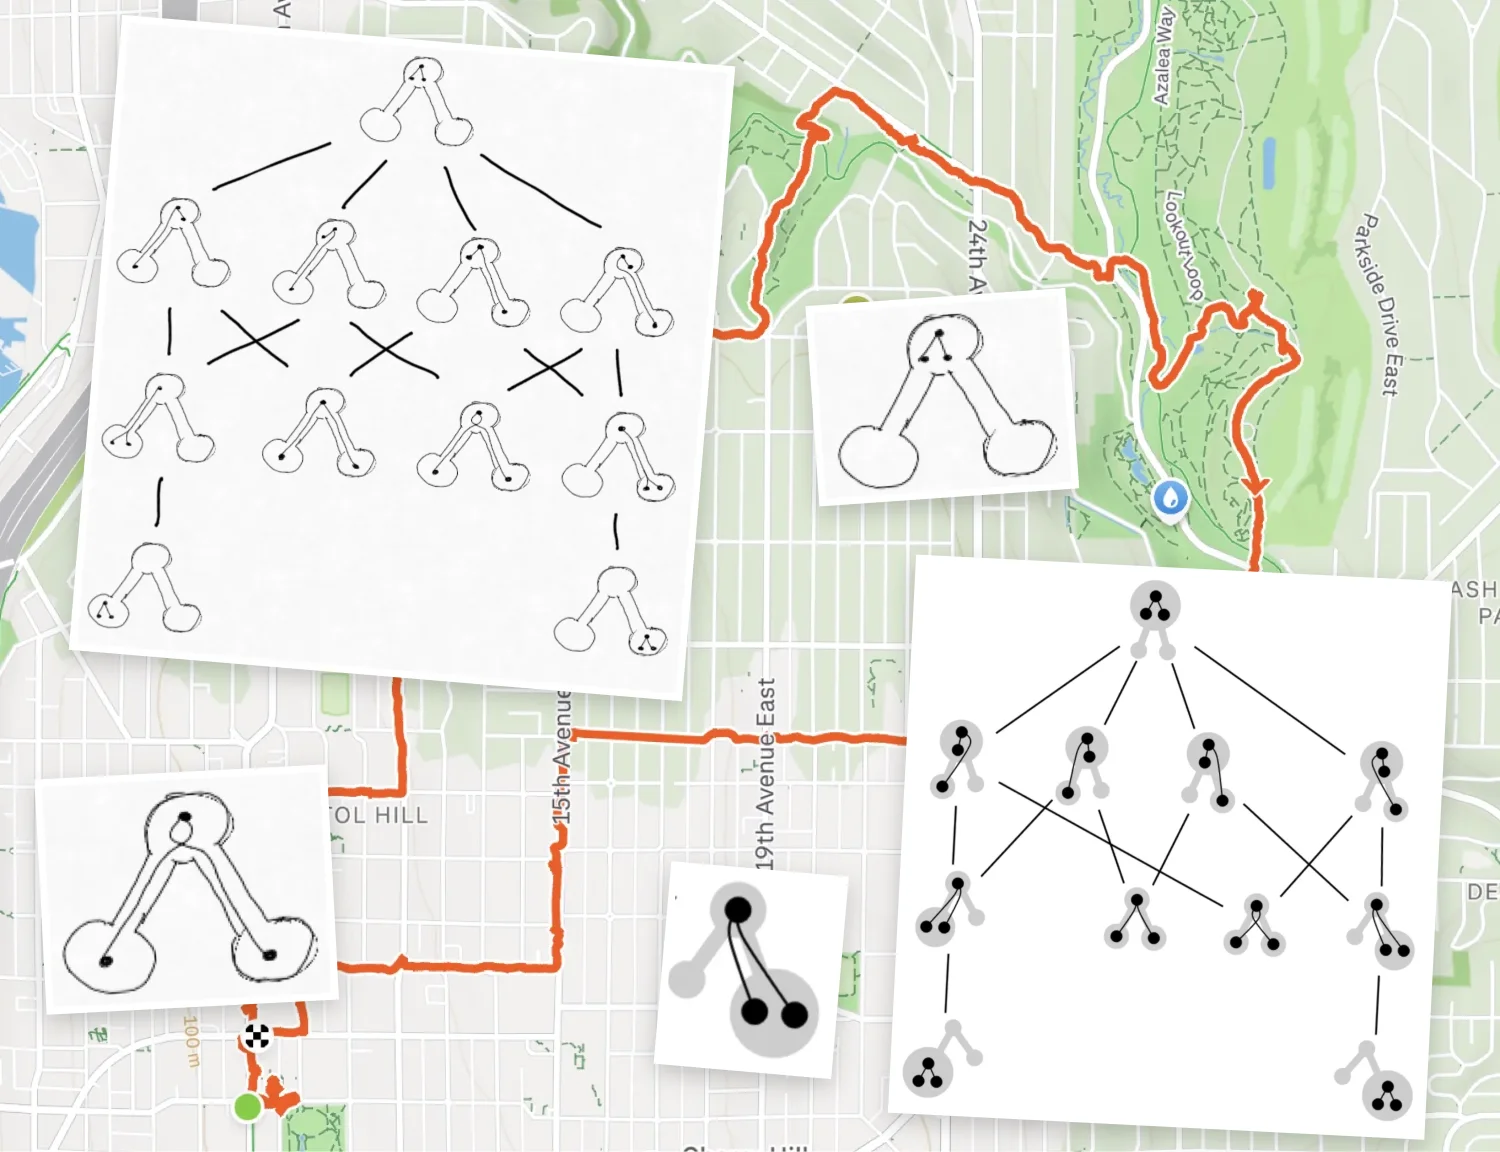
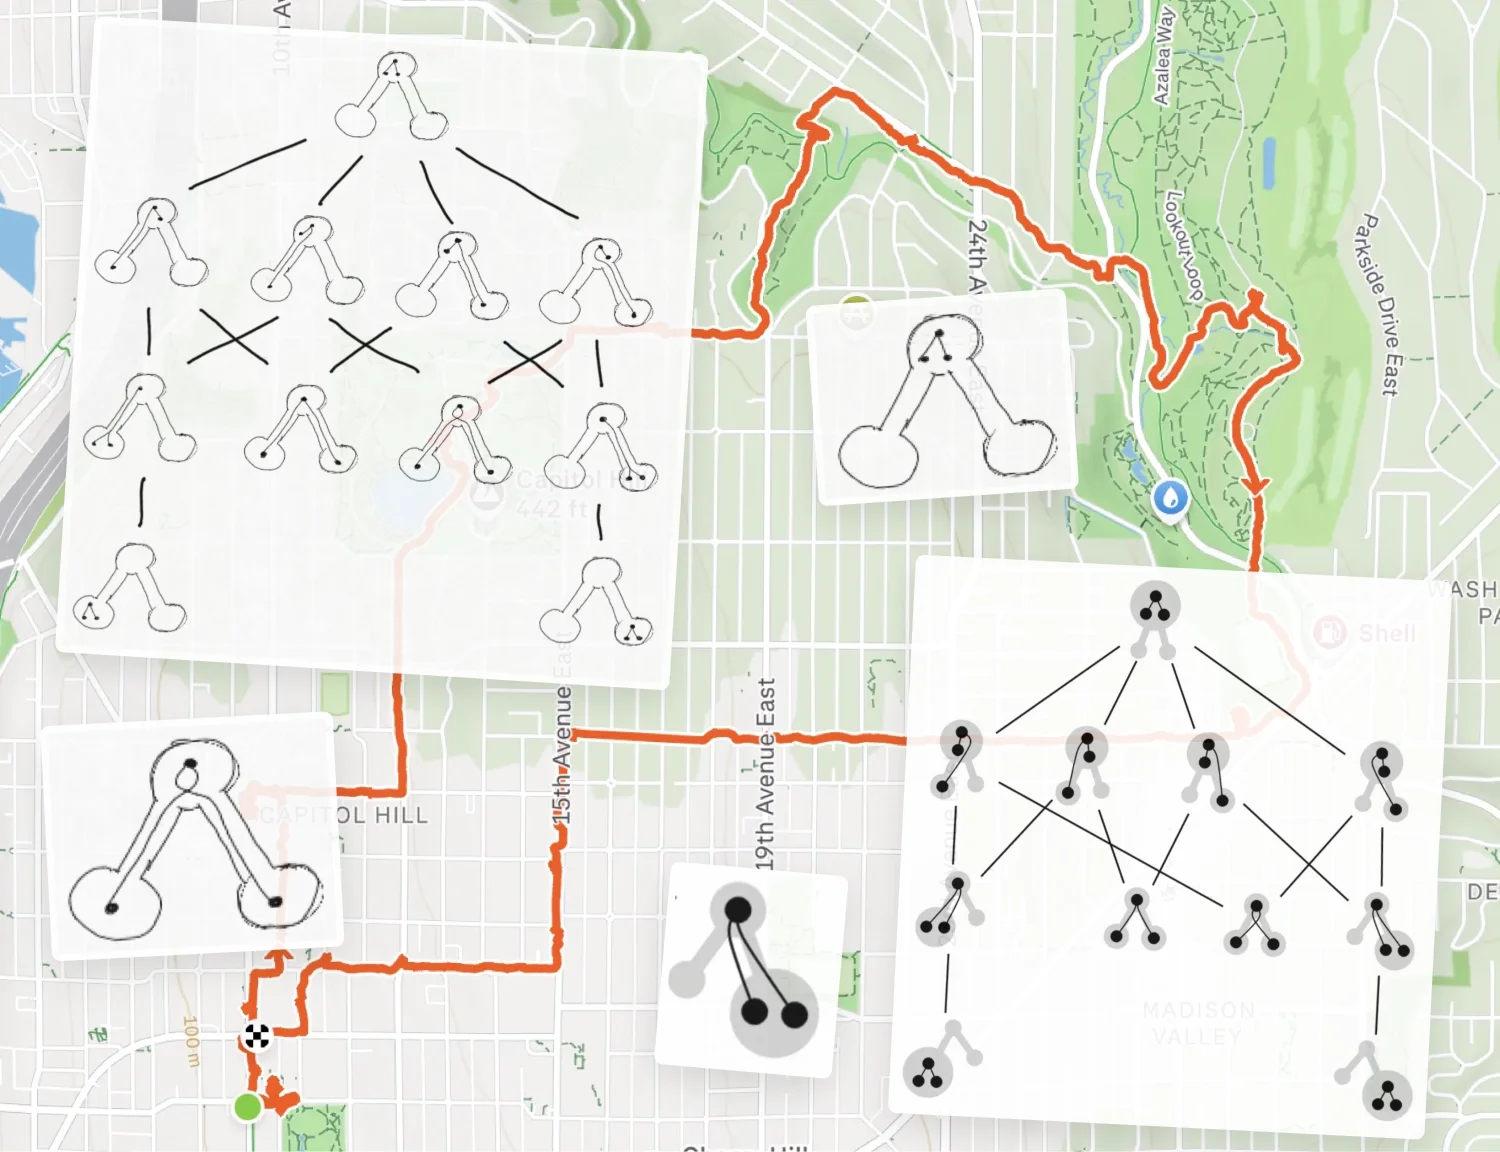
D2 page: the walk figure's sketches as Andrew set them, and a one-line caption
The paper's shadow, corners and opacity are the layout's now (walk.js's
PAPER_LOOK is the original look), with sliders for them in the editor.

diff --git a/papers/d2/review/walk-editor.js b/papers/d2/review/walk-editor.js
@@ -4,7 +4,7 @@
 // image on request; served otherwise, it keeps unsaved work in this browser,
 // to Download or Copy.
 
-import { drawPiece, mountWalk, pieceSize, SOURCES } from "../walk.js";
+import { drawPiece, mountWalk, PAPER_LOOK, paperLook, pieceSize, SOURCES } from "../walk.js";
 
 const LAYOUT_URL = "../walk/layout.json";
 /** The layout Claude started with, for Revert */
@@ -92,7 +92,7 @@ function drawPieces() {
       el.dataset.id = p.id;
       pieceEls.set(p.id, el);
     }
-    drawPiece(el, p, "../");
+    drawPiece(el, p, "../", paperLook(layout));
     el.style.pointerEvents = p.locked ? "none" : "";
     el.style.cursor = "move";
     stage.append(el); // in order, bottom to top
@@ -250,6 +250,7 @@ function drawPanel() {
   $("sel-title").textContent = p ? `${name(p)} (${p.id})` : "Page frame";
   if (p) $("look").value = p.look;
   drawNums();
+  drawSliders();
   $("undo").disabled = !undos.length;
   $("redo").disabled = !redos.length;
 }
@@ -268,6 +269,47 @@ function drawNums() {
 function draw() {
   drawPieces();
   drawOverlay();
+}
+
+// # The paper's look: a slider for each of PAPER_LOOK's settings
+
+const SLIDERS = [
+  { key: "lift", label: "shadow lift", min: 0, max: 30, step: 0.5, show: (v) => v.toFixed(1) },
+  { key: "shadow", label: "shadow dark", min: 0, max: 0.5, step: 0.01, show: (v) => v.toFixed(2) },
+  { key: "corner", label: "corners", min: 0, max: 40, step: 0.5, show: (v) => v.toFixed(1) },
+  { key: "opacity", label: "opacity", min: 0.5, max: 1, step: 0.01, show: (v) => v.toFixed(2) },
+];
+
+/** The layout before the slider being dragged moved, for undo */
+let sliderBefore = null;
+for (const sl of SLIDERS) {
+  const row = document.createElement("label");
+  row.className = "slider";
+  row.innerHTML = `<span>${sl.label}</span><input type="range" min="${sl.min}" max="${sl.max}" step="${sl.step}" data-k="${sl.key}"><output></output>`;
+  const input = row.querySelector("input");
+  input.oninput = () => {
+    sliderBefore ??= snapshot();
+    layout.paper = { ...paperLook(layout), [sl.key]: Number(input.value) };
+    drawPieces();
+    drawSliders();
+  };
+  input.onchange = () => {
+    if (sliderBefore === null || sliderBefore === snapshot()) return void (sliderBefore = null);
+    undos.push(sliderBefore);
+    redos.length = 0;
+    sliderBefore = null;
+    committed();
+  };
+  $("paper-sliders").append(row);
+}
+
+function drawSliders() {
+  const look = paperLook(layout);
+  for (const sl of SLIDERS) {
+    const input = document.querySelector(`#paper-sliders [data-k="${sl.key}"]`);
+    input.value = look[sl.key];
+    input.nextElementSibling.textContent = sl.show(look[sl.key]);
+  }
 }
 
 // # Changes, undo, saving
@@ -310,7 +352,8 @@ function formatted(l) {
           .join(", ")} }`
       : JSON.stringify(v);
   const piece = (p) => flat({ ...p, crop: box(p.crop), x: r(p.x), y: r(p.y), scale: r(p.scale, 4), rotate: r(p.rotate) });
-  return `{\n  "frame": ${flat(box(l.frame))},\n  "pieces": [\n${l.pieces.map((p) => `    ${piece(p)}`).join(",\n")}\n  ]\n}\n`;
+  const paper = l.paper && `  "paper": ${flat(Object.fromEntries(Object.entries(l.paper).map(([key, v]) => [key, r(v, 2)])))},\n`;
+  return `{\n  "frame": ${flat(box(l.frame))},\n${paper ?? ""}  "pieces": [\n${l.pieces.map((p) => `    ${piece(p)}`).join(",\n")}\n  ]\n}\n`;
 }
 
 let saveTimer;
@@ -558,6 +601,7 @@ $("uncrop").onclick = () =>
     Object.assign(p, add(p, at));
     p.crop = { x: 0, y: 0, w: S.w, h: S.h };
   });
+$("paper-reset").onclick = () => change(() => (layout.paper = { ...PAPER_LOOK }));
 $("frame-map").onclick = () => change(() => (layout.frame = { x: 0, y: 0, w: SOURCES["walk-map"].w, h: SOURCES["walk-map"].h }));
 $("frame-pieces").onclick = () =>
   change(() => {

diff --git a/papers/d2/walk.js b/papers/d2/walk.js
@@ -7,6 +7,8 @@
 // A layout is in the map's pixels ("canvas units"):
 //
 //   frame   the part of the canvas the figure shows: {x, y, w, h}
+//   paper   how the paper pieces look, PAPER_LOOK's settings (any left out
+//           are PAPER_LOOK's)
 //   pieces  bottom to top, each a crop of one of SOURCES:
 //     src     the image's name in SOURCES
 //     crop    the part of the image it shows, in the image's pixels: {x, y, w, h}
@@ -29,6 +31,20 @@ export const SOURCES = {
 /** A paper piece's white border, in canvas units */
 export const PAPER = 9;
 
+/**
+ * How the paper pieces look, unless the layout says otherwise:
+ *
+ *   lift     how far the shadow falls below the paper, in canvas units (it
+ *            blurs over three times that)
+ *   shadow   the shadow's darkness, 0 to 1
+ *   corner   the paper's corners' radius, in canvas units
+ *   opacity  the paper's, so the map shows through it a little below 1
+ */
+export const PAPER_LOOK = { lift: 10, shadow: 0.2, corner: 0, opacity: 1 };
+
+/** The layout's paper look, filled in */
+export const paperLook = (layout) => ({ ...PAPER_LOOK, ...layout.paper });
+
 /** A piece's size on the canvas */
 export function pieceSize(p) {
   return { w: p.crop.w * p.scale, h: p.crop.h * p.scale };
@@ -36,22 +52,31 @@ export function pieceSize(p) {
 
 /**
  * Draws piece `p` into `el` (a div, made the first time; its img too), placed
- * on a stage of canvas units. `dir` is where walk/ is, relative to the page.
+ * on a stage of canvas units, a paper piece as `paper` (PAPER_LOOK's
+ * settings) says. `dir` is where walk/ is, relative to the page.
  */
-export function drawPiece(el, p, dir) {
+export function drawPiece(el, p, dir, paper = PAPER_LOOK) {
   const { w, h } = pieceSize(p);
   const s = SOURCES[p.src];
+  const onPaper = p.look === "paper";
+  // the paper is a border around the image, so its corners round outside
+  // and the image's inside them
+  const border = onPaper ? PAPER : 0;
   Object.assign(el.style, {
     position: "absolute",
-    left: `${p.x - w / 2}px`,
-    top: `${p.y - h / 2}px`,
+    boxSizing: "content-box",
+    left: `${p.x - w / 2 - border}px`,
+    top: `${p.y - h / 2 - border}px`,
     width: `${w}px`,
     height: `${h}px`,
     transform: p.rotate ? `rotate(${p.rotate}deg)` : "",
     overflow: "hidden",
     display: p.hidden ? "none" : "",
-    background: p.look === "paper" ? "white" : "",
-    boxShadow: p.look === "paper" ? `0 0 0 ${PAPER}px white, 0 10px 30px ${PAPER}px rgba(0, 0, 0, 0.2)` : "",
+    background: onPaper ? "white" : "",
+    border: onPaper ? `${PAPER}px solid white` : "",
+    borderRadius: onPaper && paper.corner ? `${paper.corner}px` : "",
+    boxShadow: onPaper ? `0 ${paper.lift}px ${3 * paper.lift}px rgba(0, 0, 0, ${paper.shadow})` : "",
+    opacity: onPaper && paper.opacity < 1 ? String(paper.opacity) : "",
     mixBlendMode: p.look === "ink" ? "multiply" : "",
   });
   let img = el.querySelector("img");
@@ -98,7 +123,7 @@ export function mountWalk(host, layout, dir) {
     stage.replaceChildren();
     for (const p of layout.pieces) {
       const el = document.createElement("div");
-      drawPiece(el, p, dir);
+      drawPiece(el, p, dir, paperLook(layout));
       stage.append(el);
     }
     fit();

diff --git a/papers/d2/review/walk-editor.html b/papers/d2/review/walk-editor.html
@@ -41,6 +41,9 @@
     .help b { color: var(--ink); font-weight: 600; }
     .help p { margin: 0.3rem 0; }
     kbd { font: 0.72rem ui-monospace, monospace; border: 1px solid #ccc8bf; border-bottom-width: 2px; border-radius: 4px; padding: 0 0.25em; background: white; }
+    .slider { display: grid; grid-template-columns: 6.2rem 1fr 2.6rem; align-items: center; gap: 0.4rem; margin: 0.15rem 0; }
+    .slider input { width: 100%; margin: 0; }
+    .slider output { font: 0.75rem ui-monospace, monospace; color: var(--muted); text-align: right; }
   </style>
 </head>
 <body>
@@ -93,6 +96,12 @@
         <button id="frame-pieces">Fit to the pieces</button>
       </div>
       <div class="nums" id="nums"></div>
+    </div>
+
+    <h2>Paper <span style="text-transform:none;letter-spacing:0">(every sketch)</span></h2>
+    <div id="paper-sliders"></div>
+    <div class="row">
+      <button id="paper-reset" title="the shadow as it was first, square and opaque">Reset</button>
     </div>
 
     <h2>Gestures</h2>

diff --git a/papers/d2/index.html b/papers/d2/index.html
@@ -703,7 +703,7 @@
     <figure class="walk" id="walk-figure">
       <img src="walk/walk-figure.webp" width="1500" height="1152" loading="lazy"
         alt="A map of a walk through Capitol Hill in Seattle, its route in orange, with Josh's drawings of order-preserving maps between small trees laid over it: a hand-drawn lattice of trees with strands running between them, a computer-drawn version of the same lattice, and single trees cut from them." />
-      <figcaption>Our walk in Seattle in 2023, and Josh's drawings, two years later, of the order-preserving maps between trees that became the twisted trees demo.</figcaption>
+      <figcaption>Our walk in Seattle in 2023, and Josh's later drawings of order-preserving maps between trees.</figcaption>
     </figure>
 
     <h2>Since the paper</h2>
